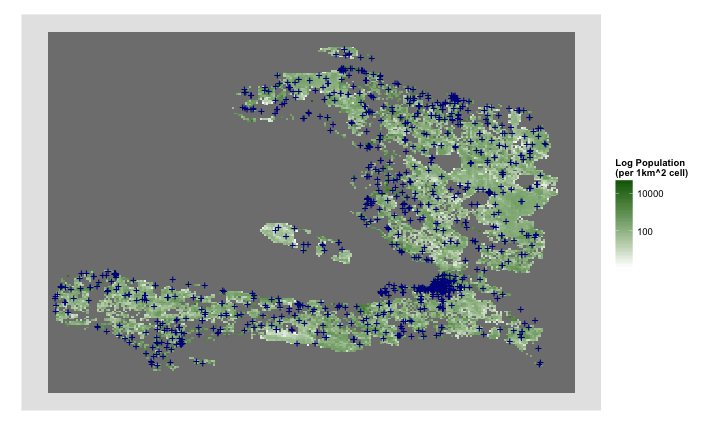
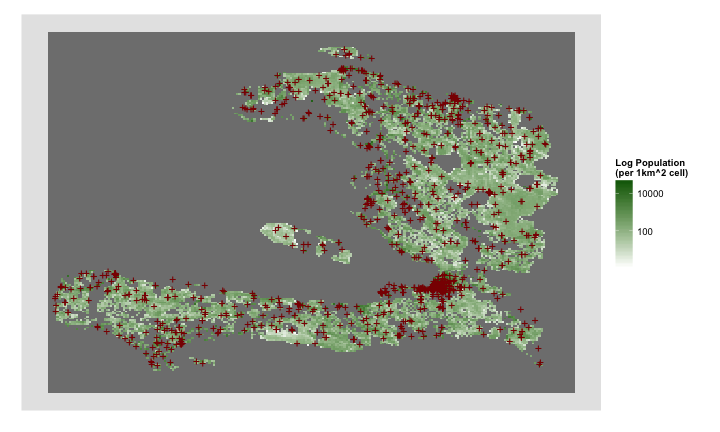
minor changes

diff --git a/index.html b/index.html
@@ -74,7 +74,7 @@
     <h2>Haiti&#39;s population and health facilities</h2>
   </hgroup>
   <article>
-    <p>Here, health facilities (in blue) have been overlaid on top of the population layer.</p>
+    <p>Here, health facilities (in red) have been overlaid on top of the population layer.</p>
 
 <p><img src="figure/unnamed-chunk-4.png" alt="plot of chunk unnamed-chunk-4"> </p>
 
@@ -114,7 +114,7 @@
     
   </hgroup>
   <article>
-    <p><strong>A different view of access:</strong> lines connect population points (every 2km) to health facilities. Long lines mean long distances to the nearest health facility. (Inspired by <a href="http://flowingdata.com/2013/08/27/in-search-of-food-deserts/">[1]</a>)</p>
+    <p><strong>A different view:</strong> Lines connect population points (every 2km) to health facilities. Long lines mean long distances to the nearest health facility. (Inspired by <a href="http://flowingdata.com/2013/08/27/in-search-of-food-deserts/">[1]</a>)</p>
 
 <p><img src="figure/unnamed-chunk-9.png" alt="plot of chunk unnamed-chunk-9"> </p>
 
